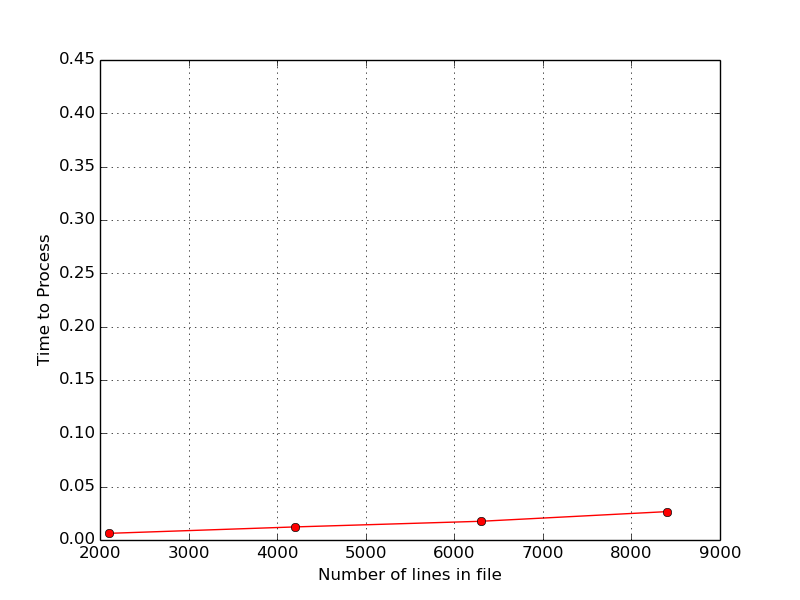
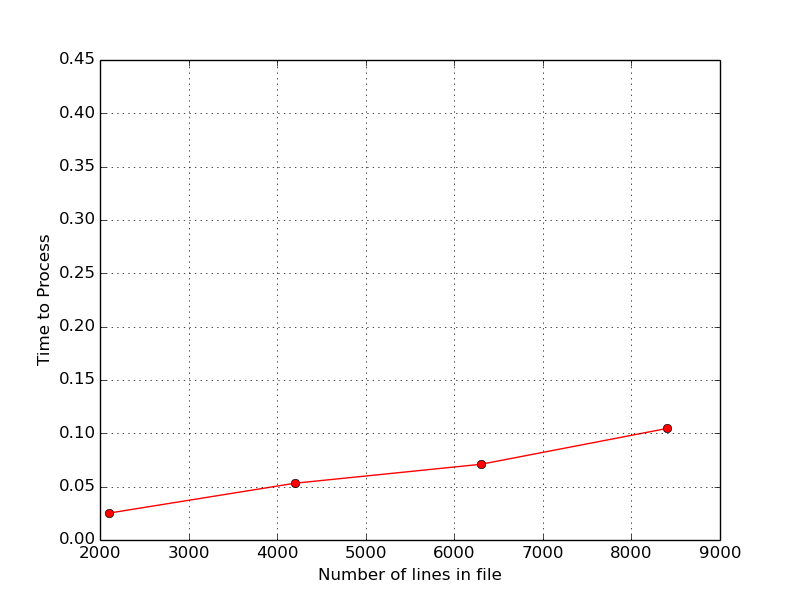
adding proper reporting

diff --git a/ipc_shared_memory/test/runner.cpp b/ipc_shared_memory/test/runner.cpp
@@ -3,6 +3,14 @@
 
 #include <iterator>
 
+#define BASE_CASE 0
+#define MULTI_PROC 1
+#define MULTI_FILE 1
+
+#ifndef POSITION
+#define POSITION 0
+#endif
+
 using namespace std;
 
 using MapString_t = std::map<std::string,long>;
@@ -13,18 +21,18 @@ int output_vector_to_file(std::string filename, std::vector<double> vec, int app
 
 int main(int argc, char** argv){
 
-
-
+    //set up for the number of process
     vector<double> procs{1, 2, 4, 6, 8, 12, 16};
     vector<double> times;
 
-
+    //just set up vars for the run trhoughs
     vector<string> inputFileNames;
     inputFileNames.push_back("../../../2100_HPC.csv");
     inputFileNames.push_back("../../../4200_HPC.csv");
     inputFileNames.push_back("../../../6300_HPC.csv");
     inputFileNames.push_back("../../../8400_HPC.csv");
 
+    //you know just more set up stuff
     vector<string> inputFileFirsts;
     inputFileFirsts.push_back("agricultural/agricultural00.tif");
     inputFileFirsts.push_back("agricultural/agricultural00_rot_000.tif");
@@ -33,13 +41,11 @@ int main(int argc, char** argv){
 
     chrono::duration<double> read_time_elapse;
 
-    string filename("../../../6300_HPC.csv");
-    //have to remeber to free it from the heap
-    // cout<<"Please enter the file path relative to this execting program, for example '../test/HPC_DATA.csv': ";
-    // cin>>filename;
+    string filename("../../../8400_HPC.csv");
 
 
-#if 0
+
+#if BASE_CASE == 1
     if(argc != 5){
         cerr<<"Arguments not correct, <query/_filename_line_to_match> <dataFile> <K> <P>"<<endl;
         exit(-1);
@@ -62,17 +68,19 @@ int main(int argc, char** argv){
 
 
     if(p.parse_file(argv[2],&read_time_elapse)){
-         VectorMatch v(nameMap,(*dataVector).data(),p.get_line_length());
-         v.computVectorMatch(argv[1],k,pNumuser,&read_time_elapse);
-
+        cout<<"Time to parser file: "<<read_time_elapse.count()<<endl;
+        VectorMatch v(nameMap,(*dataVector).data(),p.get_line_length());
+        if(v.computVectorMatch(argv[1],k,pNumuser,&read_time_elapse)){
+            cout<<"\noutput was writen to results.csv, thanks and have a great day."<<endl;
+        }
     }
 
-    cout<<"\noutput was writen to results.csv, thanks and I hope you have a decent day today"<<endl;
 #endif
 
 
-//multi proc tests
-#if 1
+//multi proc tests - only works if you change the above file locatoins to show
+    //where the files are
+#if MULTI_PROC == 1
     {
         shared_ptr<MapString_t> nameMap(new MapString_t);
         shared_ptr<vector<float>> dataVector(new vector<float>);
@@ -85,8 +93,8 @@ int main(int argc, char** argv){
             VectorMatch v(nameMap,(*dataVector).data(),p.get_line_length());
             for(int i = 0; i < procs.size(); i++){
                 chrono::duration<double> proc_time_elapse;
-                cout<<procs.at(i)<<" procs"<<endl;
-                v.computVectorMatch("agricultural/agricultural00_rot_090.tif",100,procs.at(i),&proc_time_elapse);
+                cout<<procs.at(i)<<" Threads"<<endl;
+                v.computVectorMatch("agricultural/agricultural00_rot_090.tif",1000,procs.at(i),&proc_time_elapse);
                 //v.computVectorMatch("agricultural/agricultural00_rot_000.tif",100,procs.at(i),&proc_time_elapse);
                 //v.computVectorMatch("agricultural/agricultural00.tif",100,procs.at(i),&proc_time_elapse);
                 times.push_back(proc_time_elapse.count());
@@ -94,8 +102,8 @@ int main(int argc, char** argv){
             }
 
             //write the times to a file
-            output_vector_to_file("test.csv",procs,0);
-            output_vector_to_file("test.csv",times,1);
+            output_vector_to_file("../../../hw3Data/test.csv",procs,1);
+            output_vector_to_file("../../../hw3Data/test.csv",times,1);
 
 
         }
@@ -103,8 +111,9 @@ int main(int argc, char** argv){
 
 #endif
 
-//multi file tests
-#if 1
+//multi file tests - only works if you change the above file locatoins to show
+    //where the files are
+#if MULTI_FILE == 1
 
 
     //clear the times in the vector
@@ -121,7 +130,7 @@ int main(int argc, char** argv){
         if(p.parse_file(inputFileNames.at(i),&read_time_elapse)){
             fileReadTimes.push_back(read_time_elapse.count());
             VectorMatch v(nameMap,(*dataVector).data(),p.get_line_length());
-            v.computVectorMatch(inputFileFirsts.at(i),100,4,&proc_time_elapse);
+            v.computVectorMatch(inputFileFirsts.at(i),1000,4,&proc_time_elapse);
             times.push_back(proc_time_elapse.count());
         }
         else{
@@ -136,9 +145,9 @@ int main(int argc, char** argv){
     inputNums.push_back(6300);
     inputNums.push_back(8400);
 
-    output_vector_to_file("multiFile.csv",inputNums,0);
-    output_vector_to_file("multiFile.csv",times,1);
-    output_vector_to_file("multiFile.csv",fileReadTimes,1);
+    output_vector_to_file("../../../hw3Data/multiFile.csv",inputNums,1);
+    output_vector_to_file("../../../hw3Data/multiFile.csv",times,1);
+    output_vector_to_file("../../../hw3Data/multiFile.csv",fileReadTimes,1);
 
 #endif
     //run python scripts for graphing
@@ -163,6 +172,7 @@ int output_vector_to_file(std::string filename, std::vector<double> vec, int app
     }
 
     if(outputFile.is_open()){
+        vec.insert(vec.begin(),POSITION);
 
         std::copy(vec.begin(), vec.end()-1,
         std::ostream_iterator<float>(ossVec, ","));

diff --git a/ipc_shared_memory/plotter.py b/ipc_shared_memory/plotter.py
@@ -3,44 +3,44 @@ import numpy as np
 
 
 
-data = np.genfromtxt('test.csv', delimiter=',')
-dataMultiFIle = np.genfromtxt('multiFile.csv',delimiter=',')
+# data = np.genfromtxt('test.csv', delimiter=',')
+# dataMultiFIle = np.genfromtxt('multiFile.csv',delimiter=',')
 
 
 
 
 
-plt.plot(data[0], data[1], 'ro-')
+# plt.plot(data[0], data[1], 'ro-')
 
-plt.axis([0, 20, 0, .3])
+# plt.axis([0, 20, 0, .3])
 
-plt.xlabel('Number of Procs')
-plt.ylabel('Time to Process')
-plt.grid(True)
-fig1 = plt.gcf()
-fig1.savefig('../figs/multiProc.png')
+# plt.xlabel('Number of Procs')
+# plt.ylabel('Time to Process')
+# plt.grid(True)
+# fig1 = plt.gcf()
+# fig1.savefig('../figs/multiProc.png')
 
-plt.show()
+# plt.show()
 
-plt.plot(dataMultiFIle[0],dataMultiFIle[1],'ro-')
-
-
-
-plt.xlabel('Number of lines in file')
-plt.ylabel('Time to Process')
-plt.axis([2000, 9000, 0, .45])
-plt.grid(True)
-fig2 = plt.gcf()
-fig2.savefig('../figs/multiFile.png')
-plt.show()
+# plt.plot(dataMultiFIle[0],dataMultiFIle[1],'ro-')
 
 
-plt.plot(dataMultiFIle[0],dataMultiFIle[2],'go-')
-plt.xlabel('Number of lines in file')
-plt.ylabel('Time to Process')
-plt.axis([2000, 9000, 0, 5])
-plt.grid(True)
-fig3 = plt.gcf()
-fig3.savefig('../figs/multiFileLoadTimes.png')
 
-plt.show()
+# plt.xlabel('Number of lines in file')
+# plt.ylabel('Time to Process')
+# plt.axis([2000, 9000, 0, .45])
+# plt.grid(True)
+# fig2 = plt.gcf()
+# fig2.savefig('../figs/multiFile.png')
+# plt.show()
+
+
+# plt.plot(dataMultiFIle[0],dataMultiFIle[2],'go-')
+# plt.xlabel('Number of lines in file')
+# plt.ylabel('Time to Process')
+# plt.axis([2000, 9000, 0, 5])
+# plt.grid(True)
+# fig3 = plt.gcf()
+# fig3.savefig('../figs/multiFileLoadTimes.png')
+
+# plt.show()
